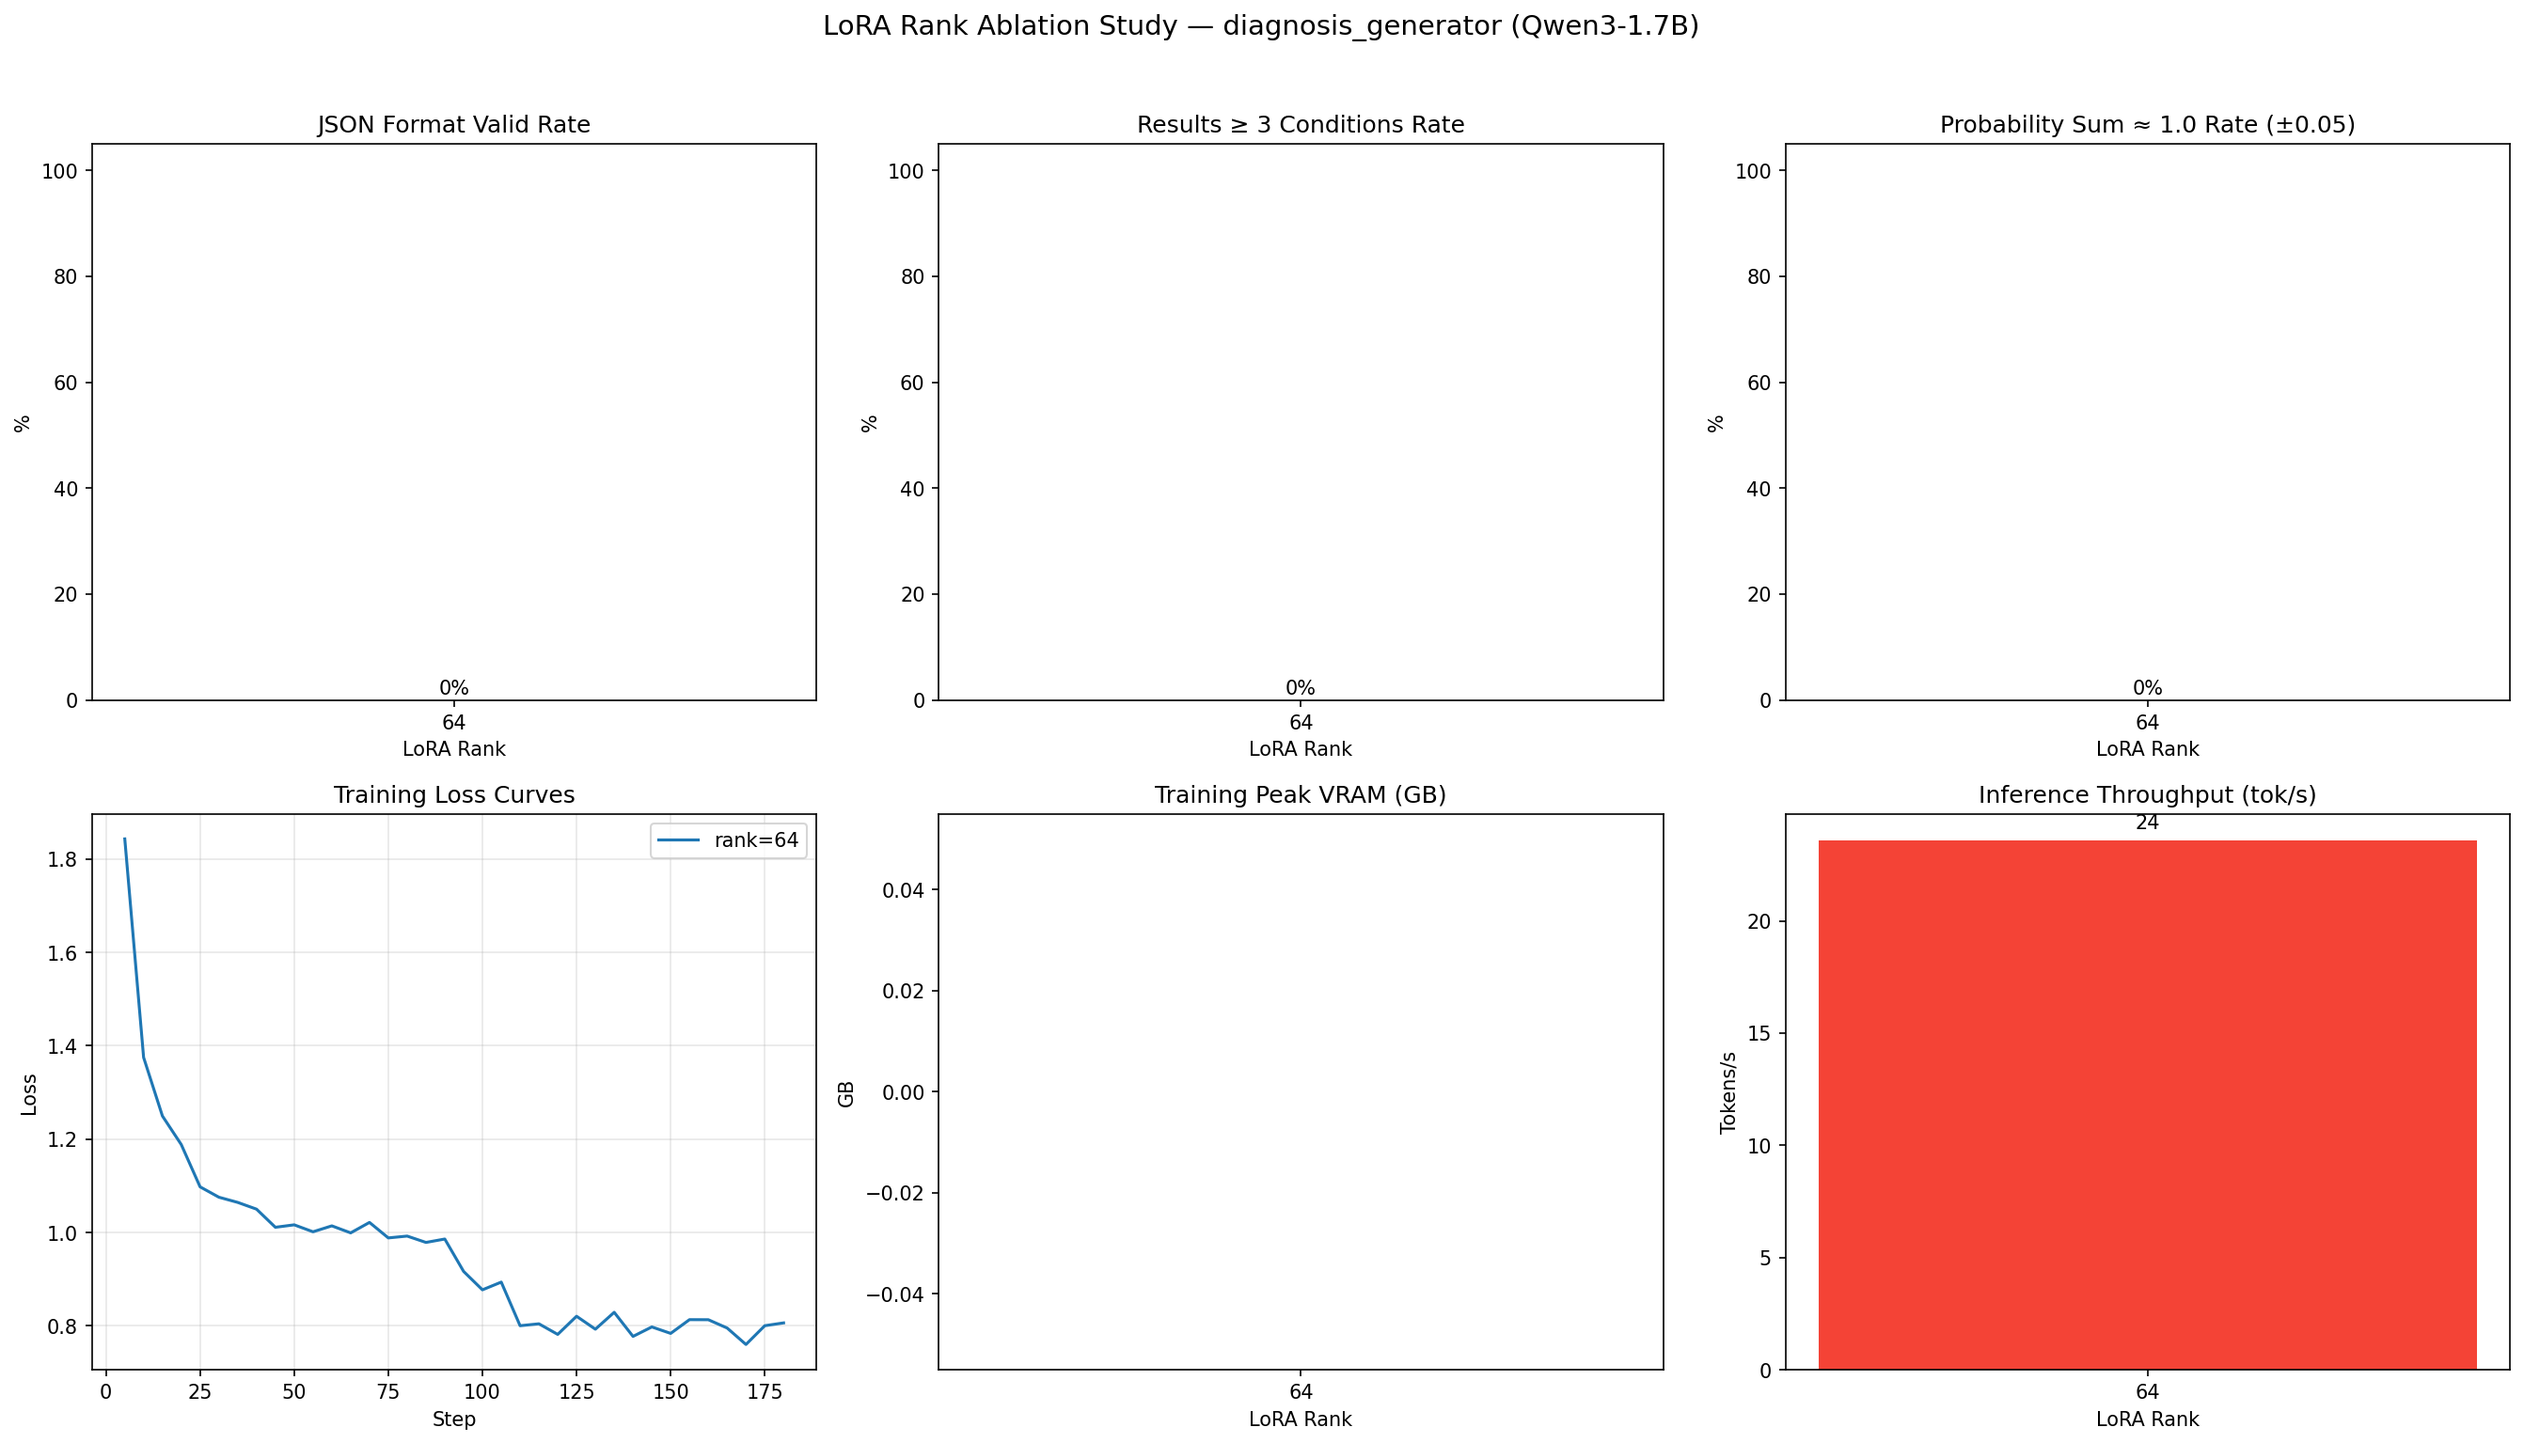
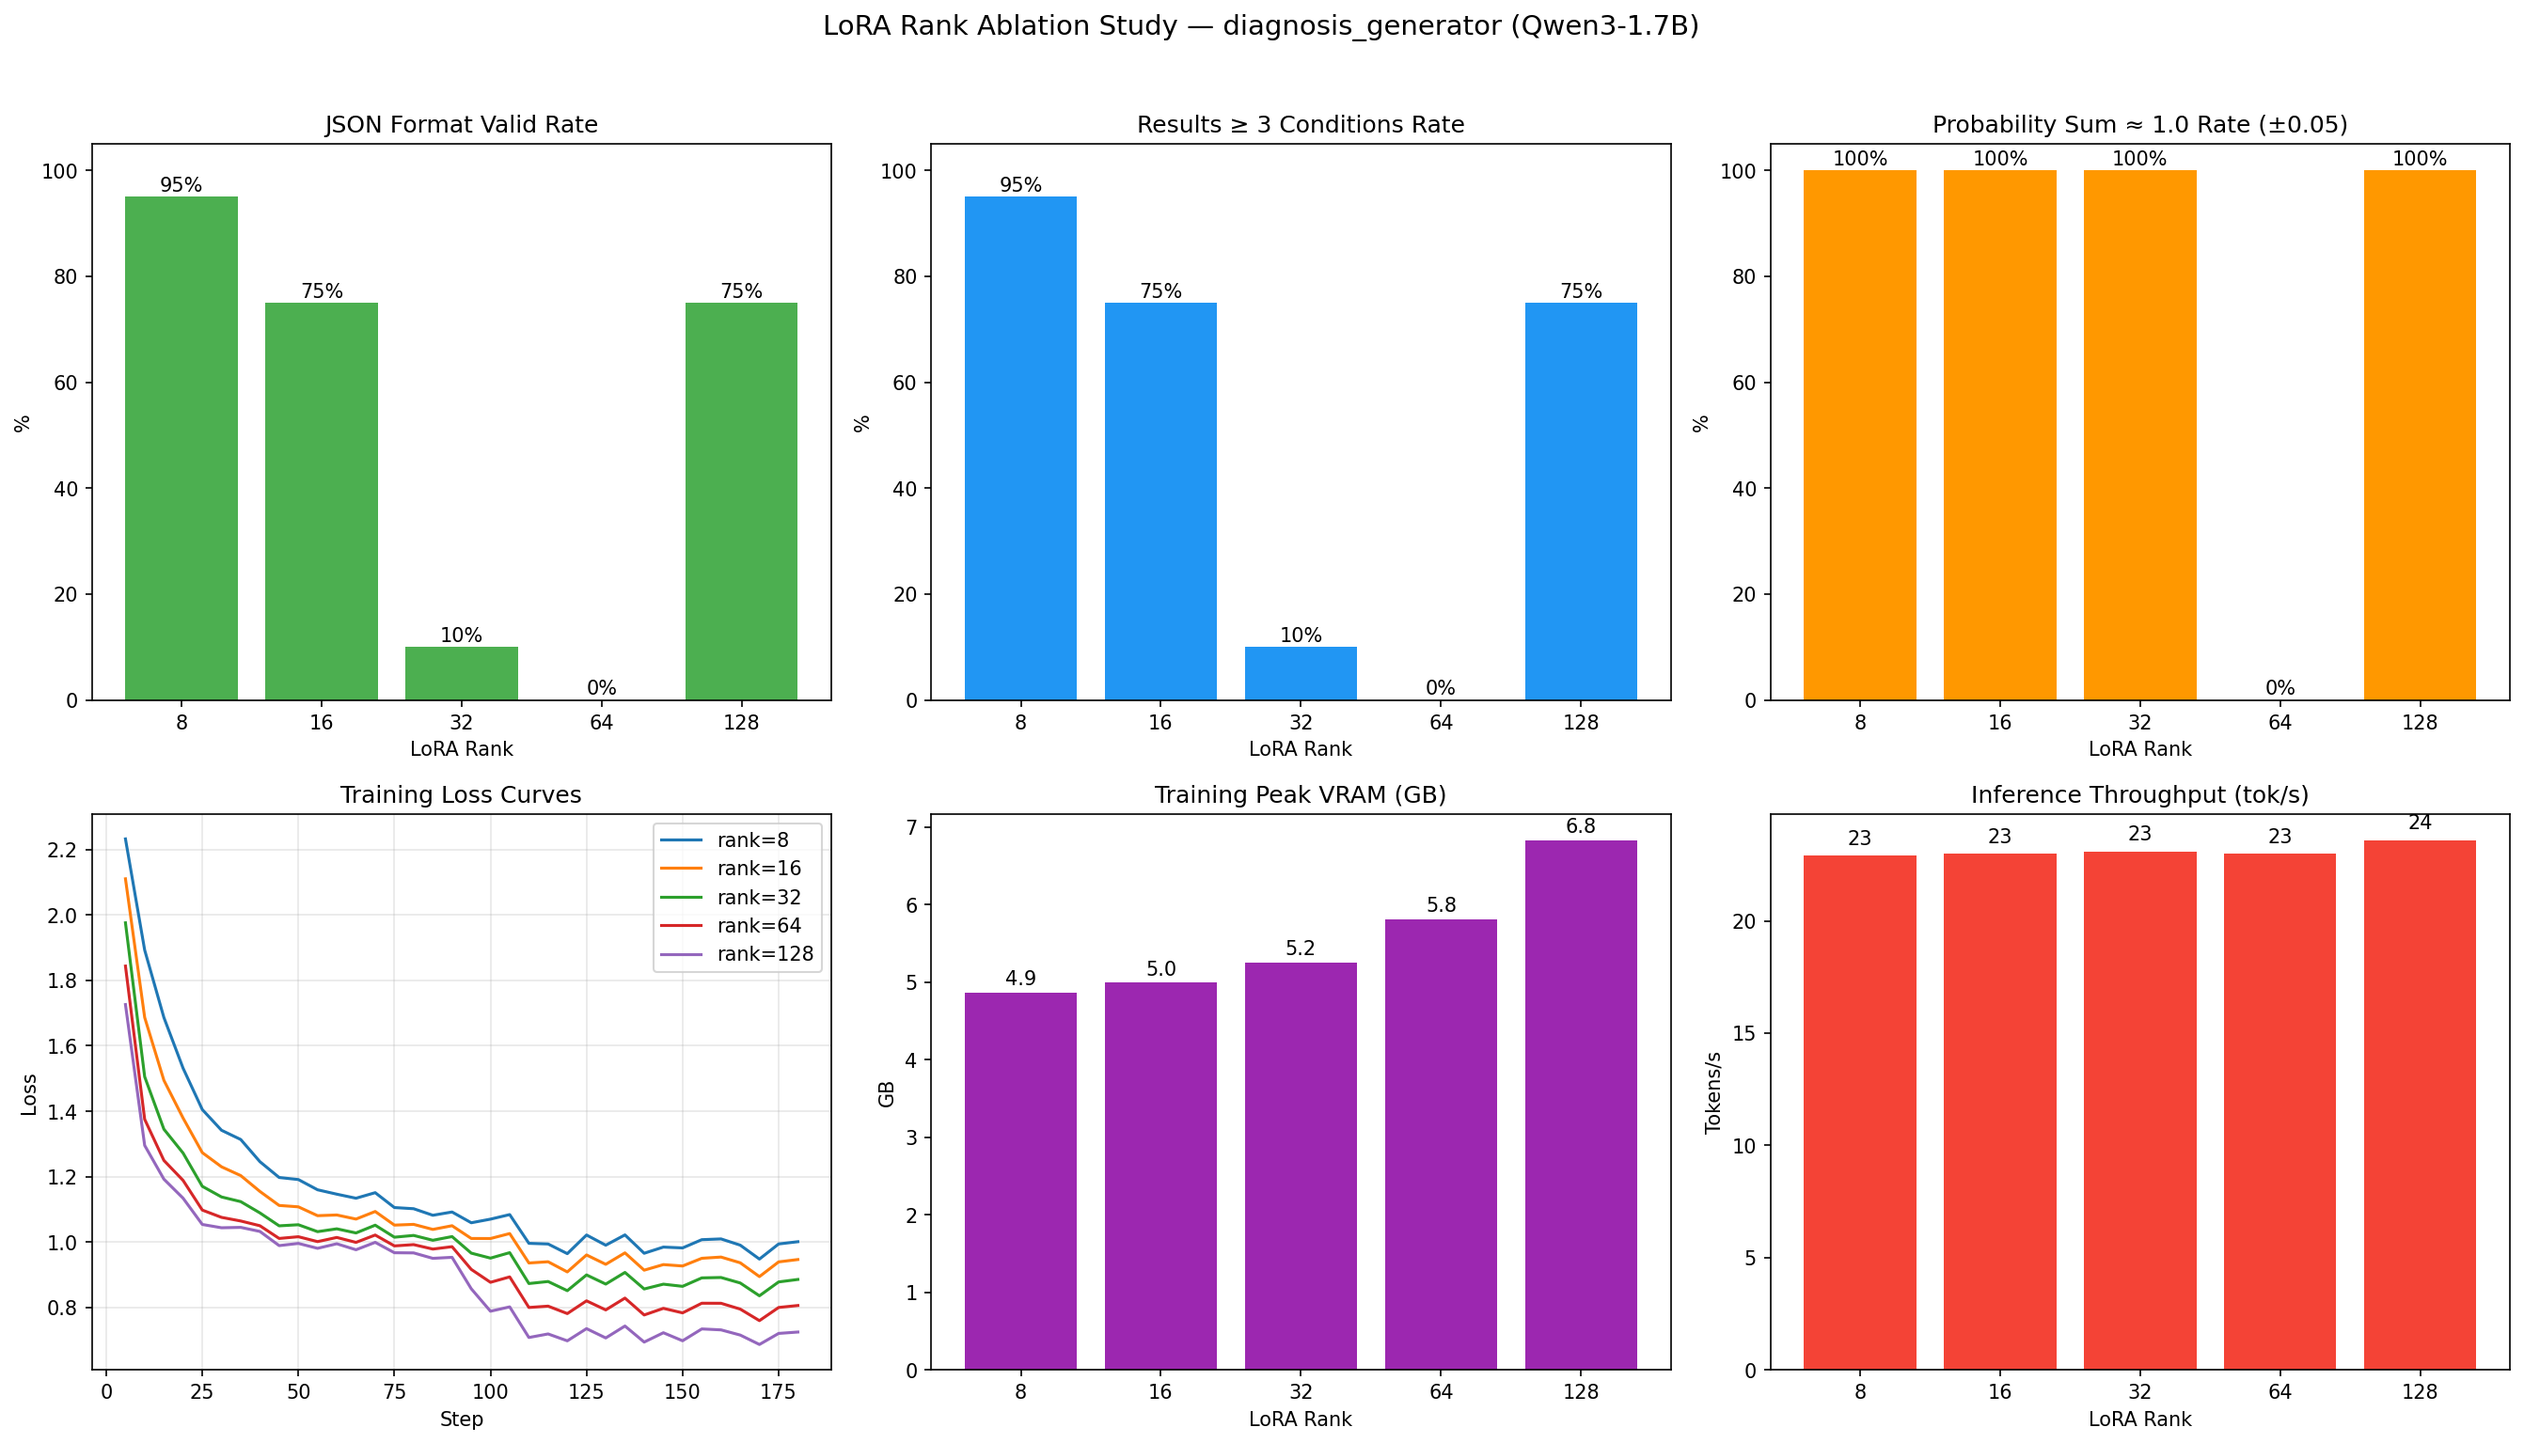
fix: notebook has bug

diff --git a/training/lora_rank_ablation/ablation_results.md b/training/lora_rank_ablation/ablation_results.md
@@ -1,7 +1,5 @@
 # LoRA Rank Ablation Results
 
-> Note (2026-02-17): 当前表格来自旧版 notebook 的一次异常评估，不可用于 rank 优劣判断。旧版存在两个问题：`max_new_tokens=300` 导致 Qwen3 `<think>...</think>` 挤占输出并截断 JSON；训练显存在父进程统计，导致 `Train VRAM(GB)=0.0`。请用已修复的 `notebooks/ablation_lora_rank.ipynb` 重跑后再更新本表。
-
 ## 实验配置
 - Agent: diagnosis_generator (Qwen3-1.7B)
 - Data: ~800 SFT samples
@@ -13,4 +11,8 @@
 
 | Rank | Alpha | Final Loss | JSON Valid | Results≥3 | Prob≈1.0 | Tok/s | Train VRAM(GB) |
 |------|-------|-----------|-----------|----------|---------|-------|---------------|
-| 64 | 128 | 0.8062 | 0% | 0% | 0% | 23.6 | 0.0 |
+| 8 | 16 | 1.0012 | 95% | 95% | 100% | 22.9 | 4.86 |
+| 16 | 32 | 0.9467 | 75% | 75% | 100% | 23.0 | 4.99 |
+| 32 | 64 | 0.8858 | 10% | 10% | 100% | 23.1 | 5.25 |
+| 64 | 128 | 0.8062 | 0% | 0% | 0% | 23.0 | 5.81 |
+| 128 | 256 | 0.7251 | 75% | 75% | 100% | 23.6 | 6.83 |
